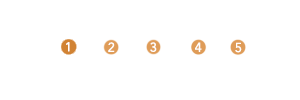
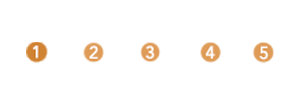
Changed position and size of step-by-step flow guide.

Changed region(s): [[0.06, 0.39, 0.42, 0.63], [0.63, 0.39, 0.93, 0.63], [0.45, 0.39, 0.54, 0.63]]

diff --git a/Style Guide/rent/payment-template-previous-friends.html b/Style Guide/rent/payment-template-previous-friends.html
@@ -110,16 +110,22 @@
 
 			<div class="grid-row">
 				<div class="grid-row">
-				<div class="grid-col-4of4">
-					<label id="textfieldlabel">Expiry Date:</label>
-					<select class="single-dropdown" id="expiry-dropdown">
-						<option value="01">01</option>
-					</select>
-					<select class="single-dropdown" id="expiry-dropdown">
-						<option value="17">17</option>
-					</select>
+					<div class="grid-col-4of4">
+						<label id="textfieldlabel">Expiry Date:</label>
+						<select class="single-dropdown" id="expiry-dropdown">
+							<option value="01">01</option>
+						</select>
+						<select class="single-dropdown" id="expiry-dropdown">
+							<option value="17">17</option>
+						</select>
+					</div>
 				</div>
 			</div>
+
+			<div class="grid-row">
+				<div class="grid-col-4of4" id="progress-flow-bar">
+					<img alt="progress bar" src="../img/step-5-num.png" height="125px">
+				</div>
 			</div>
 
 			<div class="grid-row">

diff --git a/Style Guide/rent/payment-template.html b/Style Guide/rent/payment-template.html
@@ -122,12 +122,17 @@
 			</div>
 			</div>
 
+			<div class="grid-row">
+				<div class="grid-col-4of4" id="progress-flow-bar">
+					<img alt="progress bar" src="../img/step-5-num.png" height="125px">
+				</div>
+			</div>
+
 			<div class="grid-row back-and-next-buttons">
 				<div class="grid-col-1of4" id="button-left-alignment">
 					<a href="legal-agreement-template.html" class="back-button">Back</a>
 				</div>
 				<div class="grid-col-2of4">
-					<img alt="progress bar" src="../img/step-5-num.png" height="125px">
 				</div>
 				<div class="grid-col-1of4" id="button-right-alignment">
 					<a href="confirmation-email-template.html" class="next-button">Next</a>

diff --git a/Style Guide/rent/fill-out-form-template.html b/Style Guide/rent/fill-out-form-template.html
@@ -188,12 +188,17 @@
 				</div>
 			</div> -->
 
+			<div class="grid-row">
+				<div class="grid-col-4of4" id="progress-flow-bar">
+					<img alt="progress bar" src="../img/step-3-num.png" height="125px">
+				</div>
+			</div>
+
 			<div class="grid-row back-and-next-buttons">
 				<div class="grid-col-1of4" id="button-left-alignment">
 					<a href="select-friends-template.html" class="back-button">Back</a>
 				</div>
 				<div class="grid-col-2of4">
-					<img alt="progress bar" src="../img/step-3-num.png" height="">
 				</div>
 				<div class="grid-col-1of4" id="button-right-alignment">
 					<a href="legal-agreement-template.html" class="next-button">Next</a>

diff --git a/Style Guide/rent/select-friends-template.html b/Style Guide/rent/select-friends-template.html
@@ -112,12 +112,17 @@
 				</div>
 			</div>
 
+			<div class="grid-row">
+				<div class="grid-col-4of4" id="progress-flow-bar">
+					<img alt="progress bar" src="../img/step-2-num.png" height="125px">
+				</div>
+			</div>
+
 			<div class="grid-row back-and-next-buttons">
 				<div class="grid-col-1of4" id="button-left-alignment">
 					<a href="reasons-for-friend-template.html" class="back-button">Back</a>
 				</div>
 				<div class="grid-col-2of4">
-					<img alt="progress bar" src="../img/step-2-num.png" height="">
 				</div>
 				<div class="grid-col-1of4" id="button-right-alignment">
 					<a href="fill-out-form-template.html" class="next-button">Next</a>

diff --git a/Style Guide/rent/legal-agreement-template.html b/Style Guide/rent/legal-agreement-template.html
@@ -90,12 +90,17 @@
 				</div>
 			</div>
 
+			<div class="grid-row">
+				<div class="grid-col-4of4" id="progress-flow-bar">
+					<img alt="progress bar" src="../img/step-4-num.png" height="125px">
+				</div>
+			</div>
+
 			<div class="grid-row back-and-next-buttons">
 				<div class="grid-col-1of4" id="button-left-alignment">
 					<a href="fill-out-form-template.html" class="back-button">Back</a>
 				</div>
 				<div class="grid-col-2of4">
-					<img alt="progress bar" src="../img/step-4-num.png" height="">
 				</div>
 				<div class="grid-col-1of4" id="button-right-alignment">
 					<a href="payment-template.html" class="next-button">Next</a>

diff --git a/Style Guide/rent/reasons-for-friend-template.html b/Style Guide/rent/reasons-for-friend-template.html
@@ -69,11 +69,16 @@
 			</div>
 
 			<div class="grid-row">
+				<div class="grid-col-4of4" id="progress-flow-bar">
+					<img alt="progress bar" src="../img/step-1-num.png" height="125px">
+				</div>
+			</div>
+
+			<div class="grid-row">
 				<div class="grid-col-1of4" id="button-left-alignment">
 					<a href="select-friends-template.html" class="next-button">Next</a>
 				</div>
 				<div class="grid-col-2of4">
-					<img alt="progress bar" src="../img/step-1-num.png" height="">
 				</div>
 				<div class="grid-col-1of4">
 				</div>

diff --git a/Style Guide/rent/legal-agreement-previous.html b/Style Guide/rent/legal-agreement-previous.html
@@ -91,6 +91,12 @@
 			</div>
 
 			<div class="grid-row">
+				<div class="grid-col-4of4" id="progress-flow-bar">
+					<img alt="progress bar" src="../img/step-4-num.png" height="125px">
+				</div>
+			</div>
+
+			<div class="grid-row">
 				<div class="grid-col-1of4" id="button-left-alignment">
 					<a href="fill-out-form-for-previous-friends-template.html" class="back-button">Back</a>
 				</div>

diff --git a/Style Guide/rent/select-previous-friends.html b/Style Guide/rent/select-previous-friends.html
@@ -113,6 +113,12 @@
 			</div>
 
 			<div class="grid-row">
+				<div class="grid-col-4of4" id="progress-flow-bar">
+					<img alt="progress bar" src="../img/step-1-num.png" height="125px">
+				</div>
+			</div>
+
+			<div class="grid-row">
 				<div class="grid-col-1of4" id="button-left-alignment">
 					<a href="reasons-for-same-friend-template.html" class="next-button">Next</a>
 				</div>

diff --git a/Style Guide/rent/reasons-for-same-friend-template.html b/Style Guide/rent/reasons-for-same-friend-template.html
@@ -60,6 +60,12 @@
 			</div>
 
 			<div class="grid-row">
+				<div class="grid-col-4of4" id="progress-flow-bar">
+					<img alt="progress bar" src="../img/step-2-num.png" height="125px">
+				</div>
+			</div>
+
+			<div class="grid-row">
 				<div class="grid-col-1of4" id="button-left-alignment">
 					<a href="select-previous-friends.html" class="back-button">Back</a>
 				</div>

diff --git a/Style Guide/css/main.css b/Style Guide/css/main.css
@@ -797,6 +797,11 @@ display: inline-block;
   margin-top: 0em;
 }
 
+#progress-flow-bar{
+  height: 125px;
+}
+
+
 /*Grid Structure*/
 
 #rendered-grid-structure .grid-col-1of4{ 
@@ -929,6 +934,9 @@ display: inline-block;
 @media (max-width: 598px){
   .rental-friend-options{
     width: 80%;
+  }
+  #button-left-alignment{
+    margin-left: -1em;
   }
 }
 

diff --git a/Style Guide/rent/fill-out-form-for-previous-friends-template.html b/Style Guide/rent/fill-out-form-for-previous-friends-template.html
@@ -116,6 +116,12 @@
 				</div>
 			</div>
 
+			<div class="grid-row">
+				<div class="grid-col-4of4" id="progress-flow-bar">
+					<img alt="progress bar" src="../img/step-3-num.png" height="125px">
+				</div>
+			</div>
+
 
 			<div class="grid-row">
 				<div class="grid-col-1of4" id="button-left-alignment">
